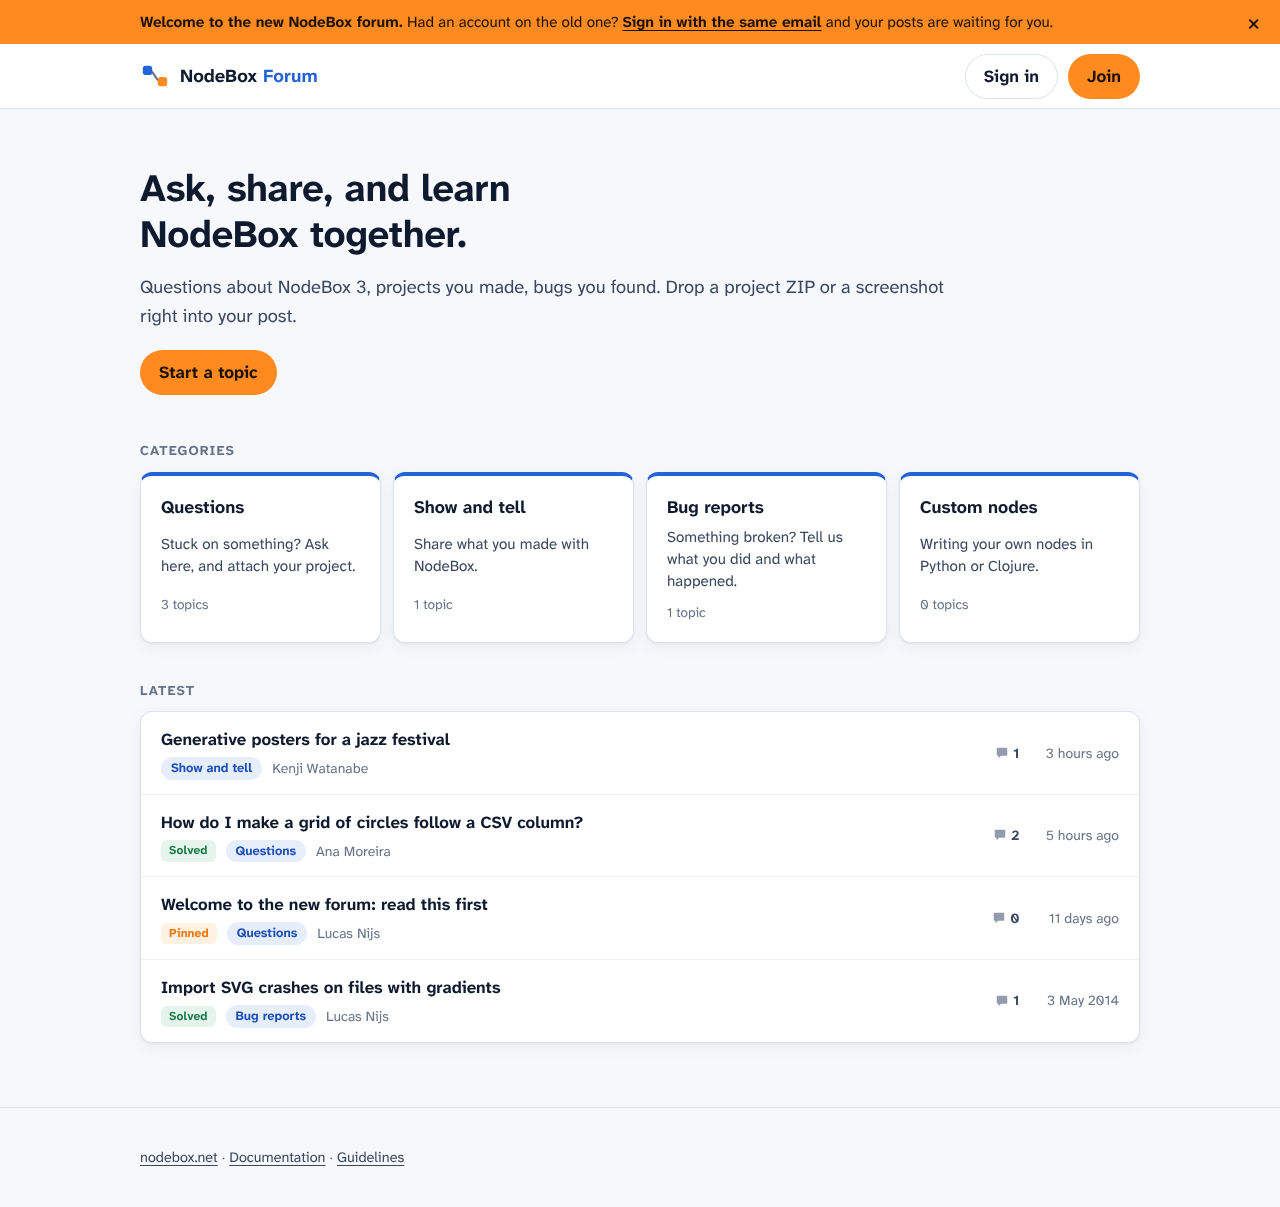
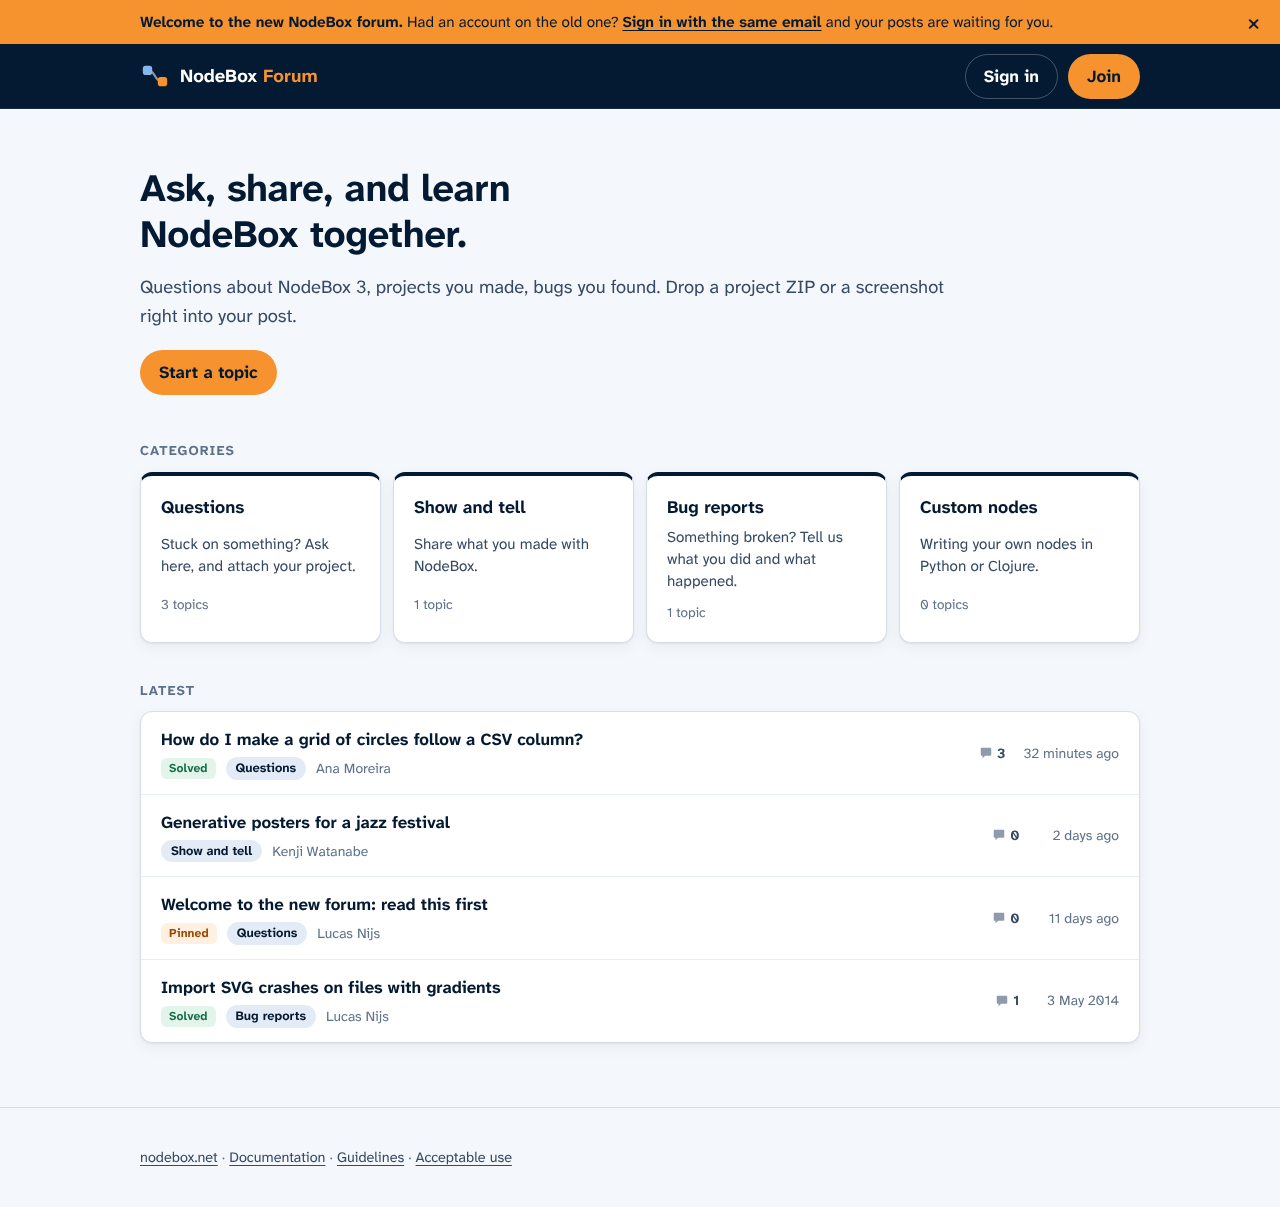
NodeBox navy palette with a complementary orange; acceptable use policy page
Navy #041a32 drives the header, text and primary buttons; links use a lighter
blue of the same hue; the orange accent carries navy text (7.6:1). Adds a
short acceptable use policy at /aup, and the moderators' removal reasons now
map one-to-one to its rules.

Claude-Session: https://claude.ai/code/session_01U7kh689sSJMCiynaNSHfVB

diff --git a/web/public/styles.css b/web/public/styles.css
@@ -1,7 +1,7 @@
 /* NodeBox Forum
  * Type: Atkinson Hyperlegible Next (text) and Mono (code), self-hosted.
  * Colour: NodeBox blue, blue-tinted neutrals, one orange accent.
- * The blue and orange below are stand-ins until we have the nodebox.net values.
+ * Navy #041a32 is the nodebox.net blue; the orange is its complement.
  */
 
 @font-face { font-family: "Atkinson Hyperlegible Next"; font-style: normal; font-weight: 400; font-display: swap; src: url("/fonts/atkinson-hyperlegible-next-latin-400-normal.woff2") format("woff2"); unicode-range: U+0000-00FF, U+0131, U+0152-0153, U+02BB-02BC, U+02C6, U+02DA, U+02DC, U+0304, U+0308, U+0329, U+2000-206F, U+20AC, U+2122, U+2191, U+2193, U+2212, U+2215, U+FEFF, U+FFFD; }
@@ -12,31 +12,34 @@
 @font-face { font-family: "Atkinson Hyperlegible Mono"; font-style: normal; font-weight: 400; font-display: swap; src: url("/fonts/atkinson-hyperlegible-mono-latin-400-normal.woff2") format("woff2"); }
 
 :root {
-  /* Brand */
-  --blue: #2563d9;
-  --blue-strong: #1b4fb5;
-  --blue-soft: #e6eefc;
-  --orange: #ff8a1f;
-  --orange-strong: #f07400;
-  --orange-soft: #fff1e3;
-  --on-orange: #1d1105;
+  /* Brand: NodeBox navy #041a32, with a complementary orange as the one accent. */
+  --navy: #041a32;
+  --button: #041a32;        /* primary (non-accent) buttons */
+  --blue: #1f5c99;          /* links and secondary buttons: navy's hue, light enough to read as a link */
+  --blue-strong: #041a32;
+  --blue-soft: #e3ecf6;
+  --orange: #f7932f;
+  --orange-strong: #e57a10;
+  --orange-soft: #fff0e1;
+  --on-orange: #041a32;
+  --orange-text: #9a4a00;   /* orange that passes 4.5:1 as text on light backgrounds */
 
-  /* Blue-tinted neutrals */
-  --ink: #0f1a2e;
-  --ink-2: #3a4760;
-  --ink-3: #66728a;
-  --line: #dbe2ee;
-  --line-soft: #ebf0f7;
-  --paper: #f6f8fc;
+  /* Navy-tinted neutrals */
+  --ink: #041a32;
+  --ink-2: #364a63;
+  --ink-3: #5f7189;
+  --line: #d5dee9;
+  --line-soft: #e8eef5;
+  --paper: #f4f7fb;
   --card: #ffffff;
-  --danger: #c02f2f;
-  --danger-soft: #fdecec;
-  --success: #1c7a4b;
-  --success-soft: #e5f5ec;
+  --danger: #b42828;
+  --danger-soft: #fcebeb;
+  --success: #17704a;
+  --success-soft: #e3f4eb;
 
   --radius: 12px;
   --radius-sm: 8px;
-  --shadow: 0 1px 2px rgb(15 26 46 / 6%), 0 4px 16px rgb(15 26 46 / 5%);
+  --shadow: 0 1px 2px rgb(4 26 50 / 6%), 0 4px 16px rgb(4 26 50 / 5%);
   --font: "Atkinson Hyperlegible Next", "Atkinson Hyperlegible", system-ui, -apple-system, "Segoe UI", sans-serif;
   --mono: "Atkinson Hyperlegible Mono", ui-monospace, "SF Mono", Menlo, Consolas, monospace;
   --measure: 68ch;
@@ -45,24 +48,25 @@
 
 @media (prefers-color-scheme: dark) {
   :root:not([data-theme="light"]) {
-    --blue: #6f9bff;
-    --blue-strong: #9ab8ff;
-    --blue-soft: #18284a;
-    --orange: #ff9a3c;
-    --orange-strong: #ffb064;
-    --orange-soft: #3a2410;
-    --on-orange: #1d1105;
-    --ink: #e8eef9;
-    --ink-2: #b4c0d6;
-    --ink-3: #8592ab;
-    --line: #2a3650;
-    --line-soft: #1d273b;
-    --paper: #0c1322;
-    --card: #131c2f;
-    --danger: #ff7b7b;
-    --danger-soft: #3b1a1d;
+    --blue: #86b6ec;
+    --button: #1f5c99;
+    --blue-strong: #b5d3f5;
+    --blue-soft: #12335a;
+    --orange: #ffa04a;
+    --orange-strong: #ffb874;
+    --orange-soft: #3a2511;
+    --orange-text: #ffb874;
+    --ink: #e9f0f8;
+    --ink-2: #b3c2d5;
+    --ink-3: #8497ae;
+    --line: #1d3b5e;
+    --line-soft: #102a47;
+    --paper: #041a32;
+    --card: #0a2441;
+    --danger: #ff8080;
+    --danger-soft: #3a1820;
     --success: #6fd6a0;
-    --success-soft: #12301f;
+    --success-soft: #0f3326;
     --shadow: 0 1px 2px rgb(0 0 0 / 30%);
     color-scheme: dark;
   }
@@ -110,12 +114,16 @@ main.narrow { max-width: 760px; }
 .banner-close:hover { background: rgb(0 0 0 / 8%); }
 
 /* Header */
-.site-header { background: var(--card); border-bottom: 1px solid var(--line); position: sticky; top: 0; z-index: 5; }
+.site-header { background: var(--navy); border-bottom: 1px solid rgb(255 255 255 / 8%); position: sticky; top: 0; z-index: 5; }
 .header-row { display: flex; align-items: center; justify-content: space-between; gap: 16px; height: 64px; }
-.brand { display: flex; align-items: center; gap: 10px; color: var(--ink); text-decoration: none; font-weight: 700; font-size: 1.15rem; }
-.brand:hover { color: var(--ink); }
-.brand-sub { color: var(--blue); }
-.logo-mark { width: 30px; height: 30px; color: var(--ink-3); }
+.brand { display: flex; align-items: center; gap: 10px; color: #fff; text-decoration: none; font-weight: 700; font-size: 1.15rem; }
+.brand:hover { color: #fff; }
+.brand-sub { color: var(--orange); }
+.logo-mark { width: 30px; height: 30px; color: rgb(255 255 255 / 55%); }
+.site-header .button-quiet { color: #fff; border-color: rgb(255 255 255 / 25%); }
+.site-header .button-quiet:hover { background: rgb(255 255 255 / 10%); color: #fff; }
+.site-header .user-menu summary { border-color: rgb(255 255 255 / 25%); color: #fff; }
+.site-header .user-menu-panel { color: var(--ink); }
 .header-nav { display: flex; align-items: center; gap: 10px; }
 
 /* Buttons */
@@ -123,9 +131,9 @@ main.narrow { max-width: 760px; }
   display: inline-flex; align-items: center; justify-content: center; gap: 8px;
   min-height: 42px; padding: 8px 18px; border-radius: 999px; border: 1px solid transparent;
   font-weight: 700; text-decoration: none; cursor: pointer; white-space: nowrap;
-  background: var(--blue); color: #fff; transition: background 0.15s, border-color 0.15s, transform 0.05s;
+  background: var(--button); color: #fff; transition: background 0.15s, border-color 0.15s, transform 0.05s;
 }
-.button:hover { background: var(--blue-strong); color: #fff; text-decoration: none; }
+.button:hover { background: #1f5c99; color: #fff; text-decoration: none; }
 .button:active { transform: translateY(1px); }
 .button-accent { background: var(--orange); color: var(--on-orange); }
 .button-accent:hover { background: var(--orange-strong); color: var(--on-orange); }
@@ -157,7 +165,7 @@ main.narrow { max-width: 760px; }
 .hero h1 { max-width: 20ch; }
 .section-title { font-size: 0.85rem; text-transform: uppercase; letter-spacing: 0.08em; color: var(--ink-3); margin: 40px 0 12px; }
 .category-grid { list-style: none; margin: 0; padding: 0; display: grid; gap: 12px; grid-template-columns: repeat(auto-fill, minmax(230px, 1fr)); }
-.category-card { display: grid; gap: 4px; height: 100%; padding: 18px 20px; background: var(--card); border: 1px solid var(--line); border-radius: var(--radius); text-decoration: none; color: var(--ink); box-shadow: var(--shadow); transition: border-color 0.15s, transform 0.15s; border-top: 4px solid var(--blue); }
+.category-card { display: grid; gap: 4px; height: 100%; padding: 18px 20px; background: var(--card); border: 1px solid var(--line); border-radius: var(--radius); text-decoration: none; color: var(--ink); box-shadow: var(--shadow); transition: border-color 0.15s, transform 0.15s; border-top: 4px solid var(--navy); }
 .category-card:hover { border-color: var(--blue); color: var(--ink); transform: translateY(-1px); }
 .category-name { font-weight: 700; font-size: 1.1rem; }
 .category-desc { color: var(--ink-2); font-size: 0.95rem; line-height: 1.45; }
@@ -180,7 +188,7 @@ main.narrow { max-width: 760px; }
 .chip { display: inline-block; padding: 1px 10px; border-radius: 999px; background: var(--blue-soft); color: var(--blue-strong); text-decoration: none; font-size: 0.8rem; font-weight: 700; }
 .chip:hover { text-decoration: none; filter: brightness(0.97); }
 .badge { display: inline-block; padding: 1px 8px; border-radius: 6px; font-size: 0.75rem; font-weight: 700; background: var(--line-soft); color: var(--ink-2); letter-spacing: 0.01em; }
-.badge-pinned { background: var(--orange-soft); color: var(--orange-strong); }
+.badge-pinned { background: var(--orange-soft); color: var(--orange-text); }
 .badge-solved { background: var(--success-soft); color: var(--success); }
 .badge-team { background: var(--blue-soft); color: var(--blue-strong); }
 .badge-legacy { background: transparent; border: 1px dashed var(--line); color: var(--ink-3); font-weight: 400; }
@@ -216,8 +224,8 @@ main.narrow { max-width: 760px; }
 .prose h1, .prose h2, .prose h3 { font-size: 1.15rem; margin: 1.2em 0 0.4em; }
 .prose blockquote { border-left: 4px solid var(--line); padding: 2px 0 2px 16px; color: var(--ink-2); }
 .prose code { font-family: var(--mono); font-size: 0.9em; background: var(--line-soft); padding: 0.1em 0.35em; border-radius: 5px; }
-.prose pre { font-family: var(--mono); background: var(--ink); color: var(--paper); padding: 14px 16px; border-radius: var(--radius-sm); overflow-x: auto; font-size: 0.875rem; line-height: 1.55; }
-@media (prefers-color-scheme: dark) { .prose pre { background: #060b16; color: var(--ink); } }
+.prose pre { font-family: var(--mono); background: var(--navy); color: #e9f0f8; padding: 14px 16px; border-radius: var(--radius-sm); overflow-x: auto; font-size: 0.875rem; line-height: 1.55; }
+@media (prefers-color-scheme: dark) { .prose pre { background: #020e1c; } .category-card { border-top-color: var(--orange); } }
 .prose pre code { background: none; padding: 0; color: inherit; font-size: inherit; }
 .prose img { border-radius: var(--radius-sm); border: 1px solid var(--line); }
 .prose .post-image { display: inline-block; margin: 4px 0; }
@@ -233,7 +241,7 @@ main.narrow { max-width: 760px; }
 .file-card { display: flex; align-items: center; gap: 12px; padding: 10px 14px; border: 1px solid var(--line); border-radius: var(--radius-sm); text-decoration: none; color: var(--ink); background: var(--paper); }
 .file-card:hover { border-color: var(--blue); color: var(--ink); }
 .file-icon { width: 36px; height: 36px; display: grid; place-items: center; border-radius: 8px; background: var(--blue-soft); color: var(--blue); font-size: 1.1rem; flex: none; }
-.file-nodebox .file-icon { background: var(--orange-soft); color: var(--orange-strong); }
+.file-nodebox .file-icon { background: var(--orange-soft); color: var(--orange-text); }
 .file-text { display: grid; min-width: 0; flex: 1; }
 .file-name { font-weight: 700; overflow: hidden; text-overflow: ellipsis; white-space: nowrap; }
 .file-meta { font-size: 0.8rem; color: var(--ink-3); }
@@ -288,7 +296,7 @@ main.narrow { max-width: 760px; }
 .upload.error { border-color: var(--danger); background: var(--danger-soft); }
 .upload.error .upload-meta { color: var(--danger); }
 .upload-remove { background: none; border: 0; cursor: pointer; color: var(--ink-3); font-size: 1.1rem; padding: 0 4px; }
-.drop-overlay { position: absolute; inset: 0; display: none; place-items: center; border: 3px dashed var(--orange); border-radius: var(--radius); background: color-mix(in srgb, var(--orange-soft) 92%, transparent); font-weight: 700; font-size: 1.15rem; color: var(--orange-strong); pointer-events: none; }
+.drop-overlay { position: absolute; inset: 0; display: none; place-items: center; border: 3px dashed var(--orange); border-radius: var(--radius); background: color-mix(in srgb, var(--orange-soft) 92%, transparent); font-weight: 700; font-size: 1.15rem; color: var(--orange-text); pointer-events: none; }
 .editor.dragging .drop-overlay { display: grid; }
 .composer-actions { display: flex; justify-content: flex-end; }
 .form-error { background: var(--danger-soft); color: var(--danger); padding: 10px 14px; border-radius: var(--radius-sm); margin: 0; font-weight: 700; }

diff --git a/web/src/views/pages.ts b/web/src/views/pages.ts
@@ -294,6 +294,27 @@ export function messagePage(heading: string, message: string | Html, action?: { 
   </div>`;
 }
 
+export function aupPage(): Html {
+  return html`<article class="prose narrow-prose">
+    <h1>Acceptable use</h1>
+    <p>The NodeBox forum is a shared space for people who use NodeBox. By posting here you agree to these few rules. They are short on purpose.</p>
+    <h2>1. Be respectful</h2>
+    <p>No harassment, personal attacks, threats, or hateful content about anyone's identity. Disagree with ideas, not people.</p>
+    <h2>2. No spam or advertising</h2>
+    <p>No unsolicited promotion, link farming, phishing, or posts that exist only to sell something. Sharing your own NodeBox work is welcome.</p>
+    <h2>3. Only share what you may share</h2>
+    <p>Post and attach only things you made or have the right to share. No pirated software, cracked licences, or other people's work passed off as yours.</p>
+    <h2>4. No malware</h2>
+    <p>Attachments must be safe to open: NodeBox projects, data, images and archives of those. Never upload anything meant to harm someone's computer.</p>
+    <h2>5. Respect privacy</h2>
+    <p>Don't post other people's personal information, such as addresses, phone numbers or private messages, without their consent.</p>
+    <h2>6. Stay on topic</h2>
+    <p>Keep posts about NodeBox, generative design and data visualisation, and related tools.</p>
+    <h2>What happens when a rule is broken</h2>
+    <p>Moderators can hide posts that break these rules and suspend accounts that keep doing so or that exist only to spam. Hidden posts are kept, not deleted, so a mistake can be undone. If you think we got it wrong, or you see something that breaks these rules, email <a href="mailto:info@nodebox.net">info@nodebox.net</a>.</p>
+  </article>`;
+}
+
 export function guidelinesPage(): Html {
   return html`<article class="prose narrow-prose">
     <h1>Guidelines</h1>
@@ -305,5 +326,6 @@ export function guidelinesPage(): Html {
       <li><strong>Mark it solved</strong> when you have your answer, so the next person finds it.</li>
       <li><strong>Be kind.</strong> Everyone was new once.</li>
     </ul>
+    <p>The rules everyone agrees to are in the <a href="/aup">acceptable use policy</a>.</p>
   </article>`;
 }

diff --git a/web/src/views/layout.ts b/web/src/views/layout.ts
@@ -19,7 +19,7 @@ export interface LayoutProps {
 
 const logo = raw(`<svg class="logo-mark" viewBox="0 0 32 32" aria-hidden="true">
   <path d="M9 10 C 16 10, 16 22, 23 22" fill="none" stroke="currentColor" stroke-width="2.4" stroke-linecap="round"/>
-  <rect x="3" y="5" width="10" height="10" rx="3" fill="var(--blue)"/>
+  <rect x="3" y="5" width="10" height="10" rx="3" fill="#86b6ec"/>
   <rect x="19" y="17" width="10" height="10" rx="3" fill="var(--orange)"/>
 </svg>`);
 
@@ -78,7 +78,7 @@ export function layout(props: LayoutProps, content: Html): Html {
   </main>
   <footer class="site-footer">
     <div class="wrap">
-      <p><a href="https://www.nodebox.net/">nodebox.net</a> · <a href="https://www.nodebox.net/node/">Documentation</a> · <a href="/guidelines">Guidelines</a></p>
+      <p><a href="https://www.nodebox.net/">nodebox.net</a> · <a href="https://www.nodebox.net/node/">Documentation</a> · <a href="/guidelines">Guidelines</a> · <a href="/aup">Acceptable use</a></p>
     </div>
   </footer>
 </body>

diff --git a/web/src/moderation.ts b/web/src/moderation.ts
@@ -1,14 +1,14 @@
 import type { PostStatus, User } from "./db.ts";
 import { now } from "./util.ts";
 
-/** Reasons offered when removing a post, matching the acceptable use policy. */
+/** Reasons offered when removing a post: one per rule of the acceptable use policy (/aup). */
 export const REMOVAL_REASONS = [
   "Spam or advertising",
-  "Abusive, harassing or hateful",
-  "Illegal or infringing content",
-  "Malware or harmful download",
-  "Personal information about someone else",
-  "Off-topic or duplicate",
+  "Disrespectful, harassing or hateful",
+  "Content you may not share (copyright, piracy)",
+  "Malware or a harmful download",
+  "Someone else's personal information",
+  "Off-topic",
 ] as const;
 
 export function log(

diff --git a/web/src/views/admin.ts b/web/src/views/admin.ts
@@ -29,7 +29,7 @@ export function postModMenu(post: PostRow, returnTo: string): Html {
       </form>
       <form method="post" action="/admin/posts/${post.id}" class="stack-sm">
         <input type="hidden" name="return" value="${returnTo}">
-        <label for="reason-${post.id}" class="small">Remove for breaking the acceptable use policy:</label>
+        <label for="reason-${post.id}" class="small">Remove for breaking the <a href="/aup" target="_blank">acceptable use policy</a>:</label>
         <select id="reason-${post.id}" name="reason">${REMOVAL_REASONS.map((r) => html`<option>${r}</option>`)}</select>
         <button class="button button-small button-danger" name="action" value="remove">Remove post</button>
       </form>

diff --git a/web/src/app.ts b/web/src/app.ts
@@ -46,6 +46,7 @@ import {
   categoryPage,
   checkEmailPage,
   confirmSignInPage,
+  aupPage,
   guidelinesPage,
   homePage,
   messagePage,
@@ -186,6 +187,7 @@ app.get("/t/:id/:slug", showTopic);
 app.get("/t/:id", showTopic);
 
 app.get("/guidelines", (c) => page(c, guidelinesPage(), { title: "Guidelines" }));
+app.get("/aup", (c) => page(c, aupPage(), { title: "Acceptable use" }));
 
 // --- Writing ------------------------------------------------------------------
 

diff --git a/docs/PLAN.md b/docs/PLAN.md
@@ -127,13 +127,11 @@ self-hosted (no Google Fonts requests, which also avoids the GDPR question of
 sending visitors' IPs to Google). 17 px base, 1.6 line height, 68-character
 measure for post text.
 
-Colour: the NodeBox blue, blue-tinted neutrals (near-black to near-white),
-orange as the single accent for calls to action, unread markers and the
-"new forum" banner. Light and dark mode follow the system setting. The exact
-blue in `web/public/styles.css` is a stand-in.
-
-**Needs Frederik:** the hex values of the nodebox.net blue (and the orange, if
-there is one already).
+Colour (**Decided**): NodeBox navy `#041a32` for the header, text and primary
+buttons, a lighter navy-hued blue (`#1f5c99`) for links, navy-tinted neutrals,
+and a complementary orange (`#f7932f`, with navy text on it at 7.6:1) as the
+single accent for calls to action and the "new forum" banner. Light and dark
+mode follow the system setting; in dark mode the navy becomes the page.
 
 "This is a new forum" is said three times: a dismissible orange banner on every
 page for the first weeks, a short note on the sign-in page ("Had an account on
@@ -167,8 +165,10 @@ Topic authors can mark their own topic solved.
   applies the review decisions and the confidence threshold, and carries the
   reason.
 
-**Needs Frederik:** the acceptable use policy text itself (the removal reasons
-in `web/src/moderation.ts` are a first guess at its headings).
+The acceptable use policy is a short page at `/aup` with six rules; each
+removal reason in the Moderate menu is one of them. It was written for this
+forum, not copied, and hasn't had a legal review. Its contact address
+(`info@nodebox.net`) needs checking.
 
 ## 5. Launch and cutover
 
@@ -195,7 +195,7 @@ data came over from Tender.
 2. The sending address for sign-in links (`forum@nodebox.net`?).
 3. Knowledge-base articles: import as a "Guides" category, or move them to the
    NodeBox docs site?
-4. The acceptable use policy text, and who the admins are on day one.
+4. Who the admins are on day one.
 5. Should imported users who never posted be imported at all? Data
    minimisation says no; the code imports only users who wrote something.
 
